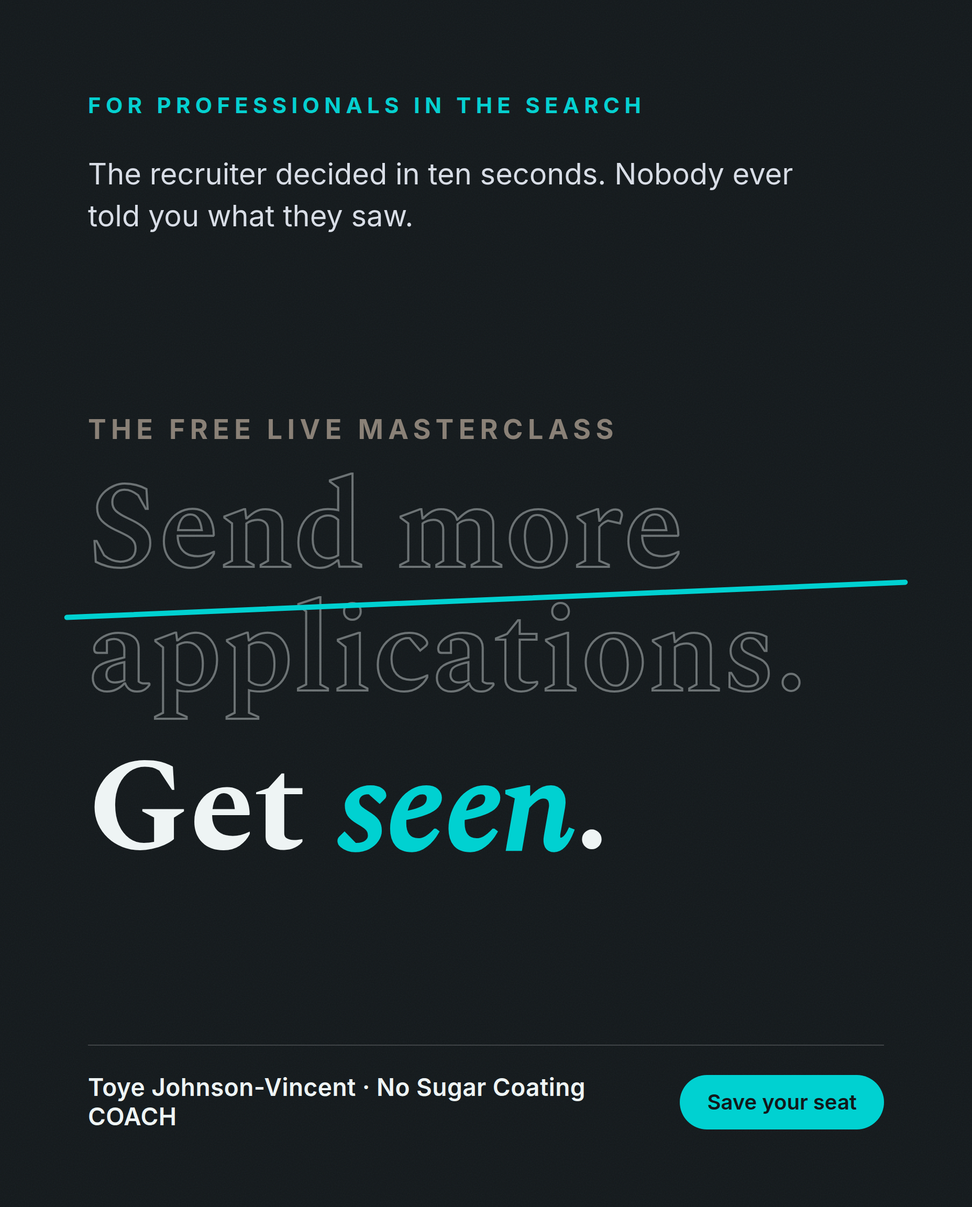
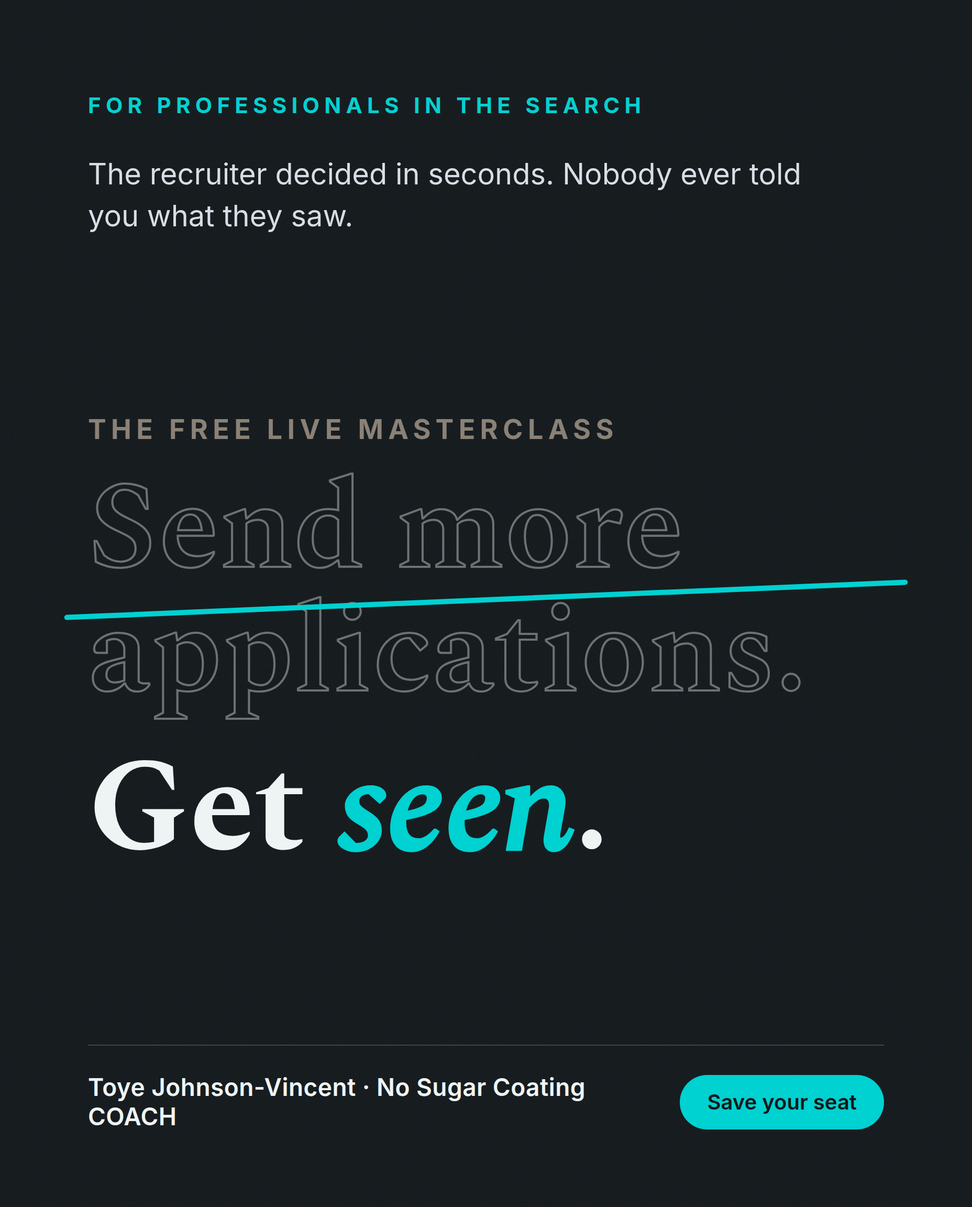
showcase: toye-johnson-vincent-motivational-speak

Changed region(s): [[0.4375, 0.125, 0.8125, 0.1562], [0.0938, 0.1562, 0.4062, 0.1875]]

diff --git a/toye-johnson-vincent-motivational-speak/deck.html b/toye-johnson-vincent-motivational-speak/deck.html
@@ -92,7 +92,7 @@ const S = [
 
  {t:'section',idx:'Part Two',title:'The No Sugar Coating Method'},
  {t:'normal',k:'Own your brand',title:'Before you say a word, your personal brand has already spoken for you.',body:'Your online presence, your introduction, the first ten seconds, all of it tells a story about you before you get to. We make that story deliberate, so the professional brand people meet is the one you actually chose, not the one left to chance.'},
- {t:'normal',k:'Network on purpose',title:'The best roles are filled through people, long before they are ever posted.',body:'This is Networking for Business and Beyond: building real connections that open doors instead of collecting contacts that go nowhere. You learn how to be the name that comes up in the room you are not in, which is where most of the good opportunities actually get decided.'},
+ {t:'normal',k:'Network on purpose',title:'Many of the best roles are filled through people, before they are ever posted.',body:'This is Networking for Business and Beyond: building real connections that open doors instead of collecting contacts that go nowhere. You learn how to be the name that comes up in the room you are not in, which is where most of the good opportunities actually get decided.'},
  {t:'normal',k:'Win the interview',title:'An interview is not a test of your past. It is an audition for your future.',body:'I will show you what a recruiter is really scoring, how to answer the question behind the question, and how to walk in prepared instead of hopeful. Being organized and ready is not luck, it is a system you can run every single time.'},
  {t:'normal',k:'Carry yourself',title:'Confidence and business etiquette are not extras. They are the whole first impression.',body:'How you show up, follow up, and handle the room decides whether people trust you with more. We build the presence and the professional habits that make a hiring manager, or a promotion committee, see someone they want to bet on.'},
  {t:'dark',title:'You may be down, but you are not out. The difference is a method you can repeat.'},

diff --git a/toye-johnson-vincent-motivational-speak/index.html b/toye-johnson-vincent-motivational-speak/index.html
@@ -124,7 +124,7 @@
       <tbody>
         <tr class="hl"><td>Job boards (Indeed, ZipRecruiter)</td><td>Selling the job marketplace</td><td class="running">Running: ~1,300, ~78</td></tr>
         <tr><td>Resume and job-search tools</td><td>Selling the tools, not the coaching</td><td class="running">Several active</td></tr>
-        <tr><td>Coaches teaching what a recruiter really looks for</td><td>Education for professionals on how hiring decides</td><td class="not-running">0 found running</td></tr>
+        <tr><td>Coaches teaching what a recruiter really looks for</td><td>Education for professionals on how hiring decides</td><td class="not-running">None found running</td></tr>
         <tr class="you"><td>Toye Johnson-Vincent / No Sugar Coating COACH</td><td>Career coaching from the hiring side</td><td class="not-running">Not running, 0</td></tr>
       </tbody>
     </table>
